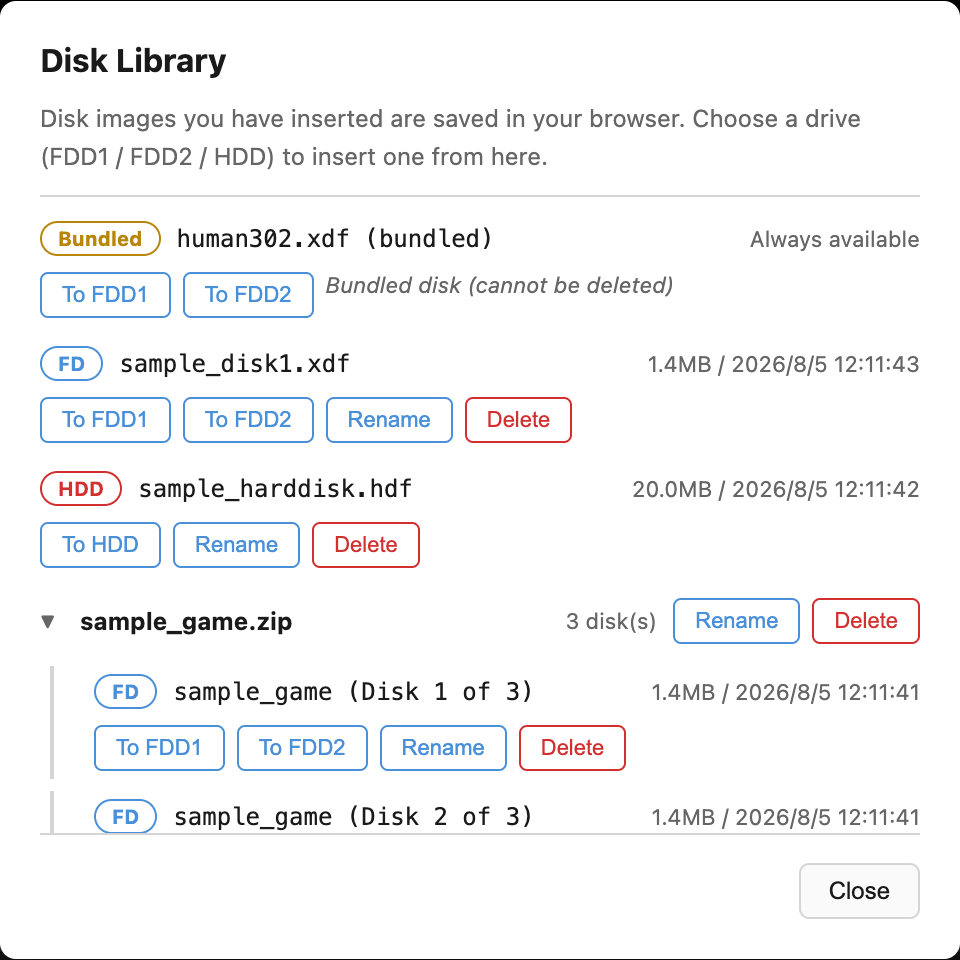
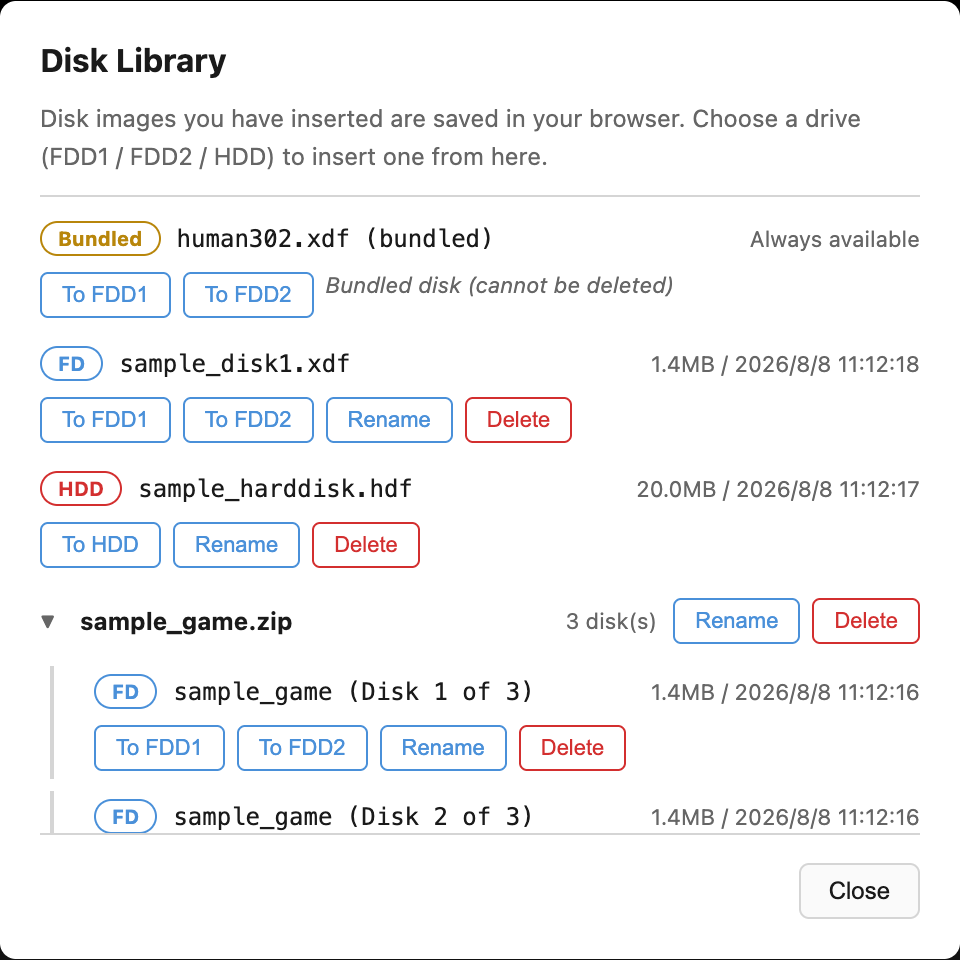
使い方/紹介ページにジョイスティック対応の説明を追加
help.html にジョイスティック節とツールバー表の行を、about.html に機能紹介を
日英両方で追加。capture-help-shots.mjs は撮影直前だけ navigator.getGamepads
を偽パッドに差し替えてジョイスティック設定ダイアログを撮影できるようにし、
gamepad.png/gamepad-en.png を追加。他の既存ショットも撮り直して同期した。

diff --git a/public/help.html b/public/help.html
@@ -721,6 +721,91 @@
           </div>
         </section>
 
+        <!-- 7.5 ジョイスティック -->
+        <section class="help-card">
+          <div class="lang-ja">
+            <h2>ジョイスティックを使う（ゲームパッド対応）</h2>
+            <p>
+              USB/Bluetoothのゲームパッド(Gamepad APIのstandard mappingに準拠したもの。Xbox系コントローラーなど)を
+              接続すると、最大2台までポート1/2としてそのまま認識されます。方向入力はD-padと左スティックの両方に
+              対応しており(左スティックはデジタル量子化で読み取り、感度はデッドゾーンで調整可能)、どちらが
+              動いてもX68000側の方向として伝わります。
+            </p>
+            <img src="./help/gamepad.png" alt="ジョイスティック設定ダイアログ。接続中パッド一覧・ライブ表示・割当編集エリアが並ぶ" />
+            <p>
+              ツールバーの「ジョイスティック設定」ボタンから設定ダイアログを開けます。接続中のパッド一覧に加え、
+              物理入力(ボタン/軸)の番号付きライブ表示と、そのパッドが現在送っているX68000側のライブ表示
+              (方向/TRGボタン)が並んでいるので、割当が実際に効いているかその場で目で確認できます。
+            </p>
+            <p>
+              割当編集は、[検出(置き換え)]ボタンを押してからパッドの該当ボタンを押すとその入力に置き換わる方法、
+              コンボボックスから選んで追加する方法(1項目に複数入力を割り当てるコンボ入力も可能)、チップの
+              [×]で個別解除する方法があり、[XInput標準に戻す]でまとめてリセットもできます。デッドゾーンの
+              調整や、ポートごとに使うパッドの手動指定もここから行います。
+            </p>
+            <p>
+              パッド種別は「標準(2ボタン)」「CPSF-MD (8ボタン)」「CPSF-SFC (8ボタン)」から選べます。
+              <strong>変更は次回のコア起動時から反映されます</strong>(リセットボタンでは反映されません)。
+            </p>
+            <p>
+              「その他の割当」セクションでは、パッドのボタンにX68000キーボードのキーを割り当てられます。
+              ゲーム開始やポーズがキー操作のソフトを、パッドだけで進行させたい場合に便利です。
+            </p>
+            <p>
+              設定は接続したパッドの識別子(<code>gamepad.id</code>)ごとにブラウザへ保存されるため、抜き差し
+              しても各パッドの設定はそのまま残ります。
+            </p>
+            <div class="note-box">
+              <strong>注意:</strong> ボタン番号の表示は1始まりです。Chrome等は、パッドのボタンを一度も
+              押していないと接続を認識しません。standard mappingに準拠しないパッドは全項目が未割当の状態
+              から始まるので、[検出]で個別に設定してください。サイバースティックのアナログモードには
+              対応していません。
+            </div>
+          </div>
+          <div class="lang-en">
+            <h2>Using a joystick (gamepad support)</h2>
+            <p>
+              Connect a USB/Bluetooth gamepad that follows the Gamepad API's standard mapping (Xbox-style
+              controllers, etc.) and it's recognized right away, up to two at once as Port 1/2. Directional
+              input works from both the D-pad and the left stick (the left stick is read as digital,
+              quantized input, with adjustable deadzone sensitivity); either one moving is passed through as
+              the X68000-side direction.
+            </p>
+            <img src="./help/gamepad-en.png" alt="Joystick Settings dialog showing the connected-pad list, live display, and binding editor" />
+            <p>
+              Open the settings dialog from the "Joystick Settings" toolbar button. Alongside the list of
+              connected pads, it shows a numbered live display of physical input (buttons/axes) and a live
+              display of what's currently being sent to the X68000 side (directions/TRG buttons) for that
+              pad, so you can see with your own eyes whether a binding is actually taking effect.
+            </p>
+            <p>
+              You can edit bindings by pressing [Detect (Replace)] and then pressing the matching button on
+              the pad to replace that binding, by picking one from the dropdown to add it (a single target can
+              have multiple inputs combined), or by removing one individually with a chip's [x]. [Reset to
+              XInput Defaults] resets everything at once. Deadzone adjustment and manually pinning which pad
+              is used for each port are also done here.
+            </p>
+            <p>
+              Pad type can be set to "Default (2 Buttons)", "CPSF-MD (8 Buttons)", or "CPSF-SFC (8 Buttons)".
+              <strong>Changing it takes effect the next time the core starts</strong> (not on Reset).
+            </p>
+            <p>
+              The "Other Bindings" section lets you map a pad button to an X68000 keyboard key — handy for
+              titles where starting the game or pausing needs a key press, so you can play with the pad alone.
+            </p>
+            <p>
+              Settings are saved per connected pad, keyed by its <code>gamepad.id</code>, so each pad keeps
+              its own settings even after being unplugged and reconnected.
+            </p>
+            <div class="note-box">
+              <strong>Note:</strong> Button numbers are displayed starting from 1. Chrome and some other
+              browsers won't recognize a pad as connected until you've pressed one of its buttons at least
+              once. A pad that doesn't follow the standard mapping starts with every target unassigned, so
+              set it up individually with [Detect]. The CYBER STICK's analog mode isn't supported.
+            </div>
+          </div>
+        </section>
+
         <!-- 8. ステート保存と続きから -->
         <section class="help-card">
           <div class="lang-ja">
@@ -1056,6 +1141,13 @@
             en: 'Virtual Keyboard',
             descJa: '画面下に仮想キーボードを表示/非表示します。タッチ環境向け。物理キーボードに無い XF1-5 などの X68000 固有キーもここから入力できます。',
             descEn: 'Shows/hides an on-screen keyboard at the bottom of the screen, for touch devices. It also lets you enter X68000-specific keys like XF1-5 that the physical keyboard has no counterpart for.',
+          },
+          {
+            icon: 'M6 9h12a3 3 0 0 1 3 3l1 4a2 2 0 0 1-3.6 1.2L17 15H7l-1.4 2.2A2 2 0 0 1 2 16l1-4a3 3 0 0 1 3-3z M7 12v3 M5.5 13.5h3 M15.5 12.5h.01 M18 14.5h.01',
+            ja: 'ジョイスティック設定',
+            en: 'Joystick Settings',
+            descJa: '接続中のゲームパッドの割当を確認・編集するダイアログを開きます。設定はパッドごとにブラウザへ保存されます。',
+            descEn: 'Opens a dialog to check and edit the bindings of connected gamepads. Settings are saved to the browser per pad.',
           },
           {
             icon: 'M7 7h10v10H7z M9 9h6v6H9z M7 4v3 M12 4v3 M17 4v3 M7 17v3 M12 17v3 M17 17v3 M4 7h3 M4 12h3 M4 17h3 M17 7h3 M17 12h3 M17 17h3',

diff --git a/public/about.html b/public/about.html
@@ -543,6 +543,33 @@
           </div>
         </section>
 
+        <!-- 特徴5.7: ジョイスティック対応 -->
+        <section class="help-card feature-card">
+          <div class="lang-ja">
+            <h2>ジョイスティック(ゲームパッド)対応</h2>
+            <p>
+              Gamepad API準拠のゲームパッドを繋ぐだけで、最大2台までポート1/2として使えます。方向入力は
+              D-padと左スティックの両方に対応し(デッドゾーン調整可)、ツールバーの「ジョイスティック設定」
+              から開くダイアログでは、接続中パッドの一覧・物理入力とX68000側入力の両方のライブ表示・
+              割当編集(検出/コンボ/削除/XInput標準へのリセット)ができます。パッド種別は標準(2ボタン)・
+              CPSF-MD(8ボタン)・CPSF-SFC(8ボタン)から選べ(変更は次回起動時反映)、パッドのボタンに
+              X68000キーボードのキーを割り当てることも可能です。設定はパッドごとにブラウザへ保存されます。
+            </p>
+          </div>
+          <div class="lang-en">
+            <h2>Joystick (gamepad) support</h2>
+            <p>
+              Plug in a Gamepad API-compliant controller and it works right away, up to two at once as Port
+              1/2. Directional input supports both the D-pad and the left stick (with adjustable deadzone).
+              The "Joystick Settings" toolbar dialog shows the list of connected pads, a live display of both
+              physical input and what's reaching the X68000 side, and full binding editing (detect, combo add,
+              remove, reset to XInput defaults). Pad type can be Default (2 buttons), CPSF-MD (8 buttons), or
+              CPSF-SFC (8 buttons) — a change takes effect on the next boot — and pad buttons can also be
+              mapped to X68000 keyboard keys. Settings are saved to the browser per pad.
+            </p>
+          </div>
+        </section>
+
         <!-- 特徴6: AI操作(MCP) -->
         <section class="help-card feature-card">
           <div class="lang-ja">
